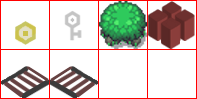
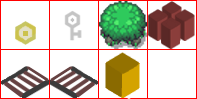
New level

Changed region(s): [[0.5178, 0.5152, 0.731, 1.0]]

diff --git a/auroral/environment.py b/auroral/environment.py
@@ -33,10 +33,10 @@ def generate_level(
         points: int | tuple[int] = (2, 5),
         walls: int | tuple[int] = (10, 30),
         water: int | tuple[int] = (0, 30),
-        trees: int | tuple[int] = (0, 30),
+        trees: int | tuple[int] = (0, 20),
         doors: int | tuple[int] = (0, 5),
-        enemies: int | tuple[int] = (0, 5),
-        danger: int | tuple[int] = (0, 30)
+        enemies: int | tuple[int] = (0, 3),
+        danger: int | tuple[int] = (0, 15)
         ) -> tuple:
     """Create a random environment.
 
@@ -93,9 +93,11 @@ def generate_level(
                             or tilemap[i][j + 1] == c
                         ):
                         p *= 9
+                        if c in ("w", "-"):
+                            p *= 2
                 except:
                     pass
-                if p > 0.9:
+                if p > 0.95:
                     tilemap[i][j] = c
                     count -= 1
 
@@ -104,16 +106,16 @@ def generate_level(
     add_element("3", walls[0], walls[1])
     add_element("w", water[0], water[1])
     add_element("t", trees[0], trees[1])
+    add_element("b", int(trees[0] / 2), int(trees[1] / 2))
     add_element("e", enemies[0], enemies[1])
     add_element("s", danger[0], danger[1])
+    add_element("-", water[0], water[1])
 
     # Swap floor and wall tiles to add more variety.
     for row in range(len(tilemap)):
         for col in range(len(tilemap)):
             if tilemap[row][col] == " ":
-                if random() < 0.1:
-                    tilemap[row][col] = "-"
-                elif random() < 0.1:
+                if random() < 0.05:
                     tilemap[row][col] = "1"
 
     return tilemap
@@ -162,7 +164,7 @@ class Agent:
     def __init__(self, position):
         self.position = Vector(position[0], position[1])
         self.direction = Vector(0.0, 0.0)
-        self.front = Vector(0.0, 1.0)  # Faces South by default.
+        self.front = Vector(1.0, 1.0)  # Faces South by default.
         self.speed = 3.0
         self.s = 0.75
         self.offset = (1.0 - self.s) / 2.0
@@ -283,9 +285,9 @@ class Animation:
         self.lifetime = 0.0
 
 
-TILES = (" ", "1", "-", "2", "3", "4", "w", "s")
-OBJECTS = ("v", "h", "*", "k", "t", "d")
-NO_COLLISIONS = (" ", "1", "-", "s")
+TILES = (" ", "1", "-", "2", "3", "4", "w", "s", "_")
+OBJECTS = ("v", "h", "*", "k", "t", "d", "b")
+NO_COLLISIONS = (" ", "1", "-", "s", "_")
 
 
 class Environment:
@@ -311,8 +313,9 @@ class Environment:
                     self.tilemap[i][j] = " "
                 elif tilemap[i][j] == "e":
                     self.agents.append(("enemy", EnemyAgent((j, i))))
-                    self.tilemap[i][j] = " "
+                    self.tilemap[i][j] = "-"
                 elif tilemap[i][j] == "*":
+                    self.tilemap[i][j] = "-"
                     self.points.append((j, i))
         self.n_points = len(self.points)
         self.n_total_points = self.n_points
@@ -327,8 +330,9 @@ class Environment:
             for j in range(len(self.tilemap[0])):
                 # Normal tiles
                 if self.tilemap[i][j] in NO_COLLISIONS:
-                    if self.objects[i][j] in ("t", "d"):  # Obstacles
+                    if self.objects[i][j] in ("t", "d", "b"):  # Obstacles
                         self.collisions[i][j] = 1
+                        self.tilemap[i][j] = "-"
                     else:
                         self.collisions[i][j] = 0
                 elif self.tilemap[i][j] == 2:
@@ -486,14 +490,21 @@ class Environment:
             # Tilemap
             row, col = int(p.position.y + 0.5), int(p.position.x)
             if row >= 0 and row < len(self.collisions) and col >= 0 and col < len(self.collisions[0]):
-                if self.collisions[row][col] >= 2:
+                if self.collisions[row][col] >= 2 and self.tilemap[row][col] != "w":
                     p.explode()
-                if self.objects[row][col] == "t":
-                    p.explode()
-                    self.objects[row][col] = " "
-                    self.collisions[row][col] = 0
+            for i_offset, j_offset in ((0, 0), (-1, 0), (1, 0), (0, 1), (0, -1)):
+                row, col = int(p.position.y + 0.5) + i_offset, int(p.position.x) + j_offset
+                if row >= 0 and row < len(self.collisions) and col >= 0 and col < len(self.collisions[0]):
+                    if self.objects[row][col] in ("t", "b"):
+                        p.explode()
+                        if self.objects[row][col] == "t":
+                            self.tilemap[row][col] = " "
+                        else:
+                            self.tilemap[row][col] = "-"
+                        self.objects[row][col] = " "
+                        self.collisions[row][col] = 0
             # Agents
-            for name, agent in self.agents:
+            for _, agent in self.agents:
                 if (
                     abs(agent.position.x - p.position.x) < 0.5
                     and abs(agent.position.y - p.position.y) < 0.5

diff --git a/auroral/game.py b/auroral/game.py
@@ -38,7 +38,7 @@ def play(
     try:
         tilemap = environment.load(level_file)
     except:
-        tilemap = environment.generate_level(20)
+        tilemap = environment.generate_level(16)
     env = environment.Environment(tilemap)
     player = env.get_player()
     resources = render.load_resources("assets/", MATCHES_FILE, theme)
@@ -86,7 +86,7 @@ def play(
         if is_over:
             return env.get_score()
         # Render on the surface.
-        screen.fill((50, 50, 50))
+        screen.fill((0, 0, 0))
         position = env.get_player().position
         render.isometric(
             env,

diff --git a/play.py b/play.py
@@ -75,7 +75,7 @@ def menu(level: int, theme: int) -> int:
         )
 
     while not stop:
-        screen.fill((50, 50, 50))
+        screen.fill((0, 0, 0))
         text = f"Move with the arrows or AWSD."
         render(instruction_font, text, 10)
         text = f"Begin the level with ENTER."
